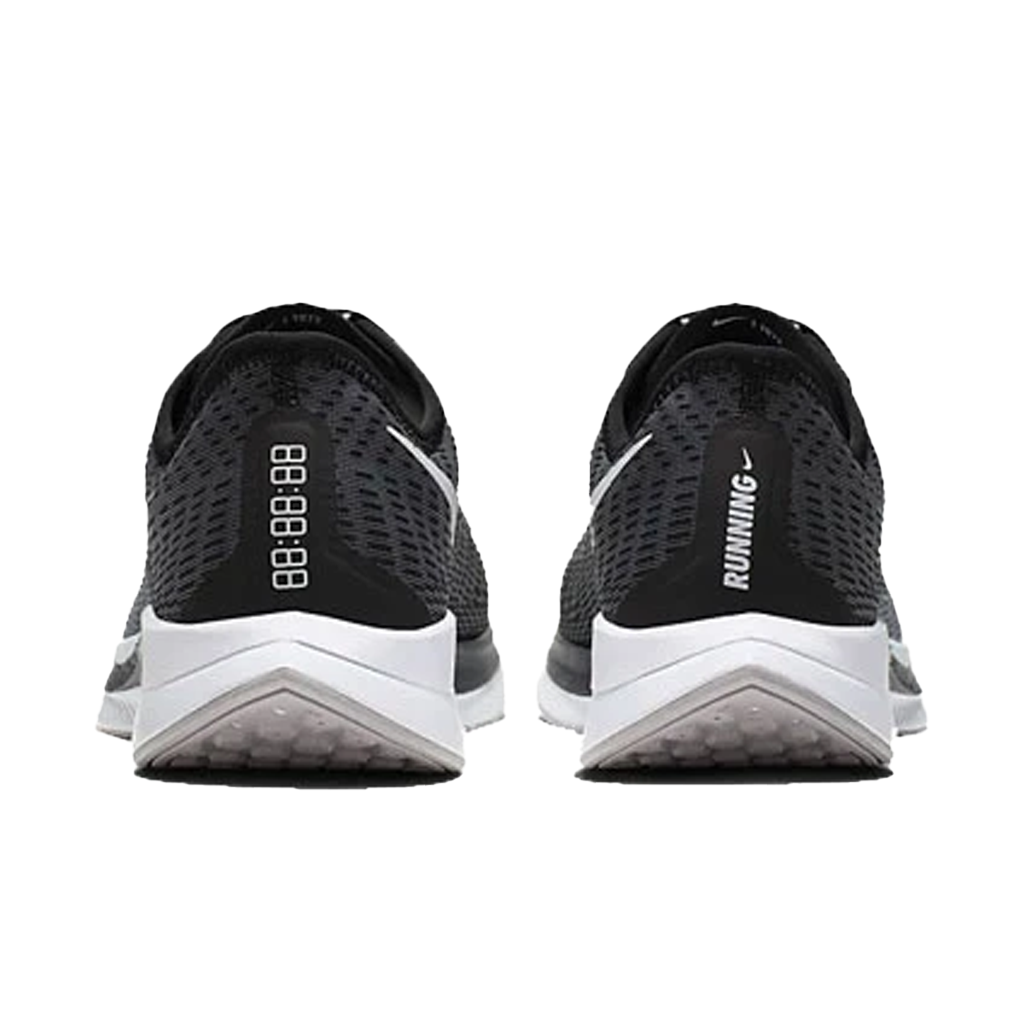
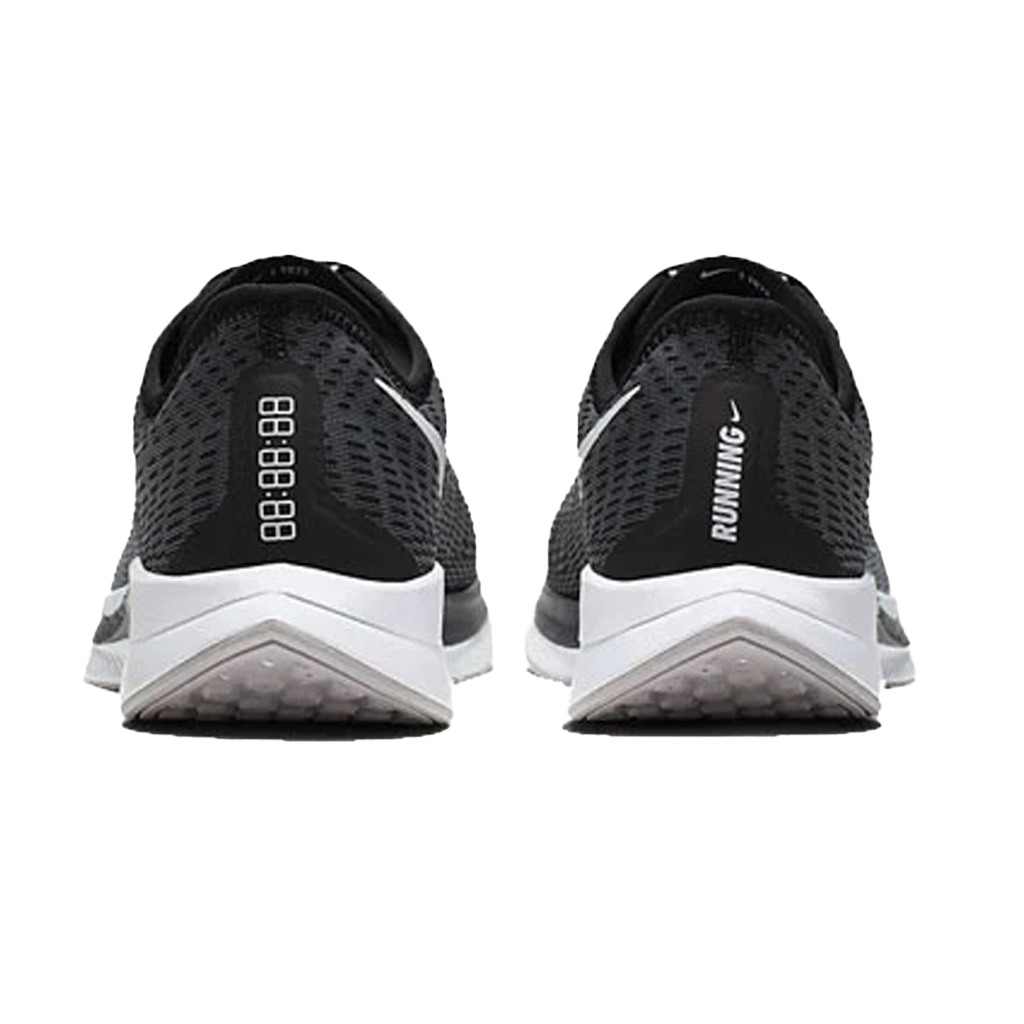
Clean up

Changed region(s): [[0.0625, 0.25, 0.9062, 0.7812]]

diff --git a/src/pages/Home.js b/src/pages/Home.js
@@ -1,12 +1,11 @@
 import React, { useState } from "react";
 import "./Home.css";
-import shoeRight from "../images/pegasusTurbo2GrayRight.png";
-import shoeRight2 from "../images/shoeRight.png";
+import shoeRight from "../images/shoeRight.png";
 import shoeBack from "../images/shoeBack.png";
 import shoeIso from "../images/shoeIso.png";
 
 export default function Home() {
-  const shoeImages = [shoeRight2, shoeBack, shoeIso];
+  const shoeImages = [shoeRight, shoeBack, shoeIso];
   const [currentImage, setCurrentImage] = useState(shoeImages[0]);
   const [count, setCount] = useState(0);
 
